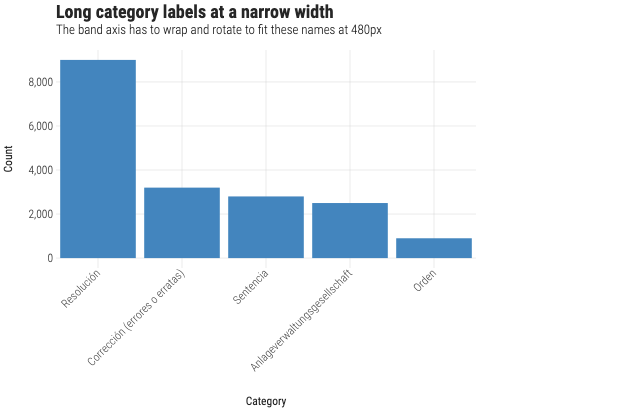
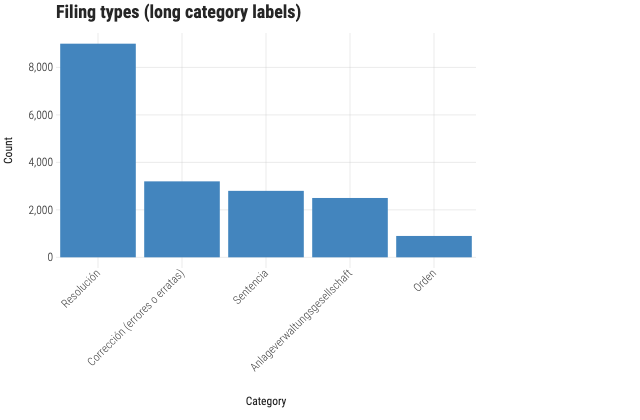
docs(examples): keep VR-smoke chart labs unchanged (#1010)
col/long-labels and point/canvas-scatter are in the VR smoke matrix, so
changing their chart labs moves three committed baselines. Baselines land only
through the /approve-visuals path, which needs a maintainer and a merged
commit, so the labs edits are backed out here and tracked separately.

Their gallery title and description still change - meta.json sits outside the
pinned .gg-example-frame and does not move a pixel of the VR shot.

diff --git a/examples/point/canvas-scatter/Example.svelte b/examples/point/canvas-scatter/Example.svelte
@@ -10,8 +10,6 @@
   import { CANVAS_SCATTER_MARKS, cloud } from "./data.js";
 
   const title = `${CANVAS_SCATTER_MARKS.toLocaleString("en-US")} points on a canvas stratum`;
-  const subtitle =
-    "Above the automatic threshold the marks go to canvas instead of SVG; the cloud is seeded, because the subject here is the render path";
 </script>
 
 <GGPlot
@@ -22,6 +20,6 @@
 >
   <ThemeDark />
   <ScaleColorManual domain={["a", "b"]} values={["#da702c", "#4385be"]} />
-  <Labs {title} {subtitle} x="x" y="y" color="Cluster" />
+  <Labs {title} x="x" y="y" color="Cluster" />
   <GeomPoint size={1.2} alpha={0.4} />
 </GGPlot>

diff --git a/examples/point/canvas-scatter/spec.ts b/examples/point/canvas-scatter/spec.ts
@@ -12,8 +12,6 @@ export default defineExample(
     .theme("dark")
     .labs({
       title: `${CANVAS_SCATTER_MARKS.toLocaleString("en-US")} points on a canvas stratum`,
-      subtitle:
-        "Above the automatic threshold the marks go to canvas instead of SVG; the cloud is seeded, because the subject here is the render path",
       x: "x",
       y: "y",
       color: "Cluster",

diff --git a/examples/col/long-labels/spec.ts b/examples/col/long-labels/spec.ts
@@ -7,8 +7,7 @@ export default defineExample(
   gg(filings, aes({ x: "category", y: "count" }))
     .geomCol()
     .labs({
-      title: "Long category labels at a narrow width",
-      subtitle: "The band axis has to wrap and rotate to fit these names at 480px",
+      title: "Filing types (long category labels)",
       x: "Category",
       y: "Count",
     })

diff --git a/examples/col/long-labels/Example.svelte b/examples/col/long-labels/Example.svelte
@@ -14,11 +14,6 @@
   width={480}
   height={420}
 >
-  <Labs
-    title="Long category labels at a narrow width"
-    subtitle="The band axis has to wrap and rotate to fit these names at 480px"
-    x="Category"
-    y="Count"
-  />
+  <Labs title="Filing types (long category labels)" x="Category" y="Count" />
   <GeomCol />
 </GGPlot>
